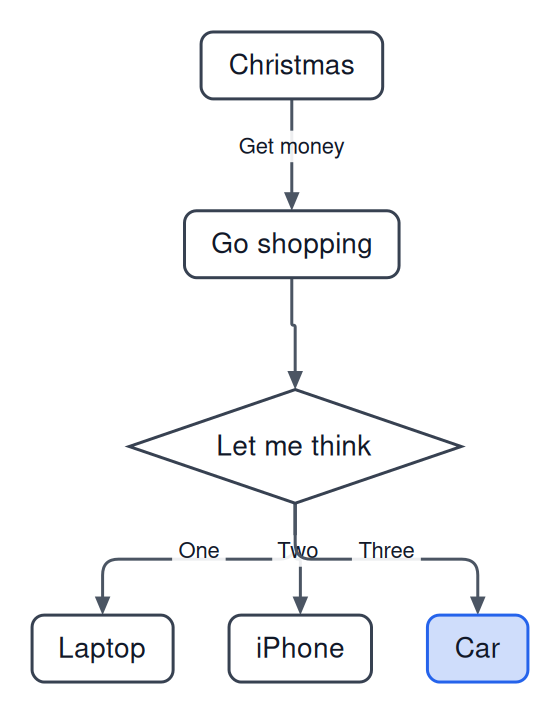
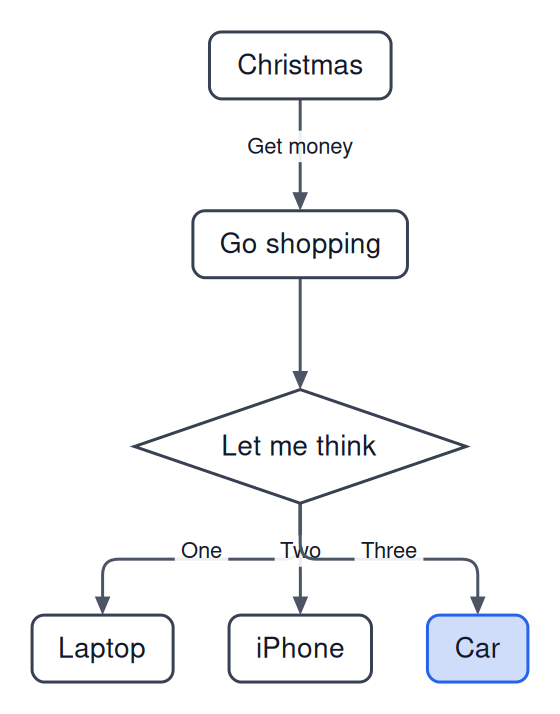
fix(layout): centre spines over odd fan-outs

diff --git a/src/nodal/layout.py b/src/nodal/layout.py
@@ -432,13 +432,13 @@ class LayeredLayout(Layout):
                 for i in range(1, len(layer)):
                     mn = new[i - 1] + (csz(layer[i - 1]) + csz(layer[i])) / 2 + gap(layer[i - 1], layer[i])
                     new[i] = max(new[i], mn)
-                # shift block left toward desired mean to avoid drifting right
+                # shift the packed block by the median residual (L1 optimum): when a parent
+                # has an odd number of children, the middle child lands exactly under it
                 if layer:
-                    excess = sum(n - want[u] for n, u in zip(new, layer)) / len(layer)
-                    new = [n - max(0.0, excess) for n in new]
-                    for i in range(1, len(layer)):
-                        mn = new[i - 1] + (csz(layer[i - 1]) + csz(layer[i])) / 2 + gap(layer[i - 1], layer[i])
-                        new[i] = max(new[i], mn)
+                    res = sorted(want[u] - n for n, u in zip(new, layer))
+                    m = len(res) // 2
+                    shift = res[m] if len(res) % 2 else (res[m - 1] + res[m]) / 2
+                    new = [n + shift for n in new]
                 for u, n in zip(layer, new):
                     pos[u] = n
         return pos

diff --git a/tests/test_nodal.py b/tests/test_nodal.py
@@ -35,3 +35,20 @@ def test_render_mixed_layouts_and_css():
     assert 'fill="#ff0000"' in svg
     assert 'stroke-width="5"' in svg and 'stroke-width="3"' in svg
     assert "lbl" in svg
+
+
+def test_spine_is_centred_over_odd_fanout():
+    import re
+    svg = render('graph dir=TB\nA "Christmas"\nB "Go shopping"\nC "Let me think" shape=diamond\n'
+                 'D "Laptop"\nE "iPhone"\nF "Car"\nA -> B -> C\nC -> D\nC -> E\nC -> F\n')
+
+    def cx(nid):
+        body = svg.split(f'<g id="{nid}"', 1)[1].split("</g>", 1)[0]
+        m = re.search(r'<rect x="([\d.]+)" y="[\d.]+" width="([\d.]+)"', body)
+        if m:
+            return float(m[1]) + float(m[2]) / 2
+        xs = [float(p.split(",")[0]) for p in re.search(r'points="([^"]+)"', body)[1].split()]
+        return (min(xs) + max(xs)) / 2
+
+    centres = [cx(n) for n in "ABCE"]
+    assert max(centres) - min(centres) < 1.0
